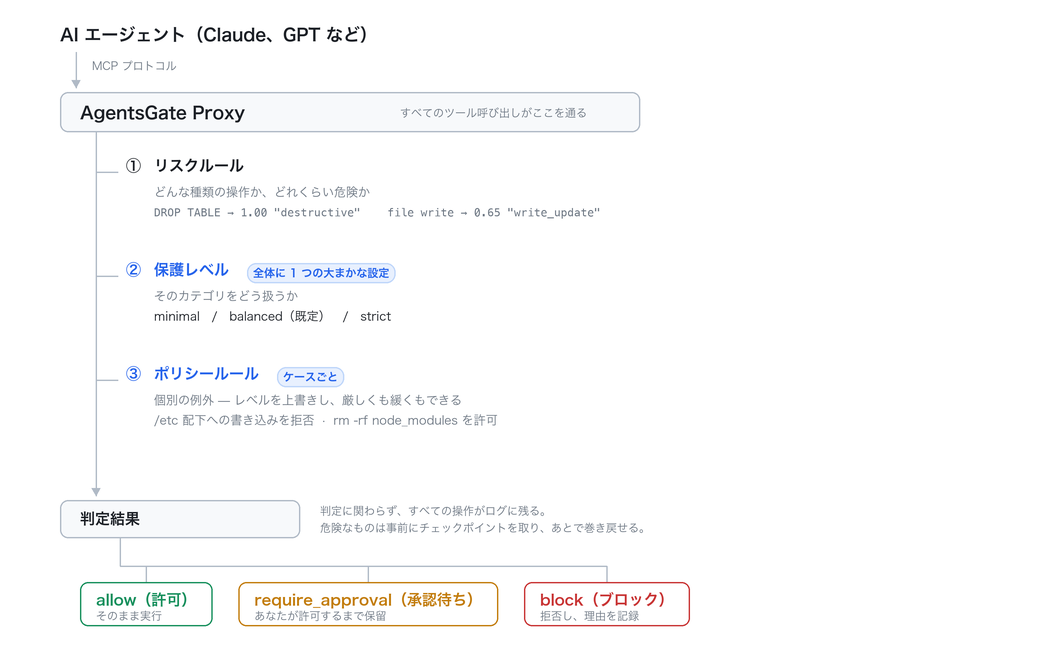
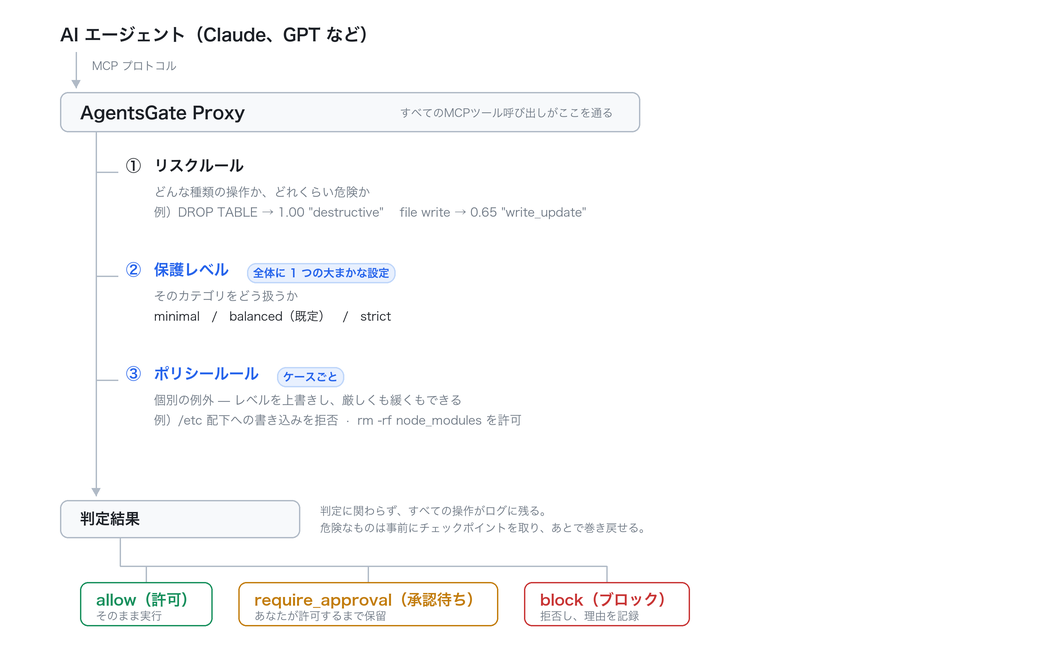
fix(docs): pick the diagram font by content, not by which step it is
Regenerating after the wording change put tofu boxes in the Japanese figure:
the example line under step ① is drawn in Menlo so the scores and categories
line up, and Menlo has no CJK glyphs, so the new 例）prefix rendered as two
empty squares. Confirmed by rendering 例 in Menlo and comparing it against a
private-use codepoint — identical, which is what tofu is.

Monospace is now used only when the line is pure ASCII. That keeps the English
example aligned, fixes the Japanese one, and cannot come back if someone
rewords either — the choice follows the text rather than the step number.

Images regenerated with the current wording.

Changed region(s): [[0.1538, 0.6061, 0.4923, 0.6667], [0.1538, 0.303, 0.5846, 0.3333], [0.4308, 0.1515, 0.5846, 0.1818]]

diff --git a/scripts/make-diagram.py b/scripts/make-diagram.py
@@ -120,7 +120,12 @@ def draw_diagram(out_path, t):
             text(rail + 62 + d.textlength(title, font=f_step) / S + 20, y + 5, tag, f_tag, ACCENT)
         text(rail + 58, y + 28, l1, f_body, MUTED)
         if l2:
-            text(rail + 58, y + 48, l2, f_mono if num == '①' else f_body,
+            # Monospace suits the score/category examples, but Menlo has no CJK
+            # glyphs — a Japanese prefix on that line renders as tofu. Choose by
+            # what the string actually contains, so rewording it cannot
+            # reintroduce the problem.
+            mono_ok = num == '①' and l2.isascii()
+            text(rail + 58, y + 48, l2, f_mono if mono_ok else f_body,
                  MUTED if num != '②' else INK)
         y += 104
 
@@ -162,13 +167,13 @@ def draw_diagram(out_path, t):
 
 EN = dict(
     agent='AI Agent  (Claude, GPT, and so on)', mcp='MCP protocol',
-    through='every tool call passes through here',
+    through='every MCP tool call passes through here',
     s1='Risk rules', s1a='What kind of operation is this, and how risky?',
-    s1b='DROP TABLE → 1.00 "destructive"    write a file → 0.65 "write_update"',
+    s1b='Exp) DROP TABLE → 1.00 "destructive"    write a file → 0.65 "write_update"',
     s2='Protection level', s2a='What to do with that category',
     s2b='minimal   /   balanced (default)   /   strict',
     s3='Policy rules', s3a='Your exceptions — overrides the level, tighter OR looser',
-    s3b='block writes under /etc  ·  allow rm -rf node_modules',
+    s3b='Exp) block writes under /etc  ·  allow rm -rf node_modules',
     tag_broad='one setting, covers everything', tag_narrow='case by case',
     verdict='Verdict',
     logged1='Every operation is logged, whatever the verdict.',
@@ -180,13 +185,13 @@ EN = dict(
 
 JA = dict(
     agent='AI エージェント（Claude、GPT など）', mcp='MCP プロトコル',
-    through='すべてのツール呼び出しがここを通る',
+    through='すべてのMCPツール呼び出しがここを通る',
     s1='リスクルール', s1a='どんな種類の操作か、どれくらい危険か',
-    s1b='DROP TABLE → 1.00 "destructive"    file write → 0.65 "write_update"',
+    s1b='例）DROP TABLE → 1.00 "destructive"    file write → 0.65 "write_update"',
     s2='保護レベル', s2a='そのカテゴリをどう扱うか',
     s2b='minimal   /   balanced（既定）   /   strict',
     s3='ポリシールール', s3a='個別の例外 — レベルを上書きし、厳しくも緩くもできる',
-    s3b='/etc 配下への書き込みを拒否  ·  rm -rf node_modules を許可',
+    s3b='例）/etc 配下への書き込みを拒否  ·  rm -rf node_modules を許可',
     tag_broad='全体に 1 つの大まかな設定', tag_narrow='ケースごと',
     verdict='判定結果',
     logged1='判定に関わらず、すべての操作がログに残る。',
